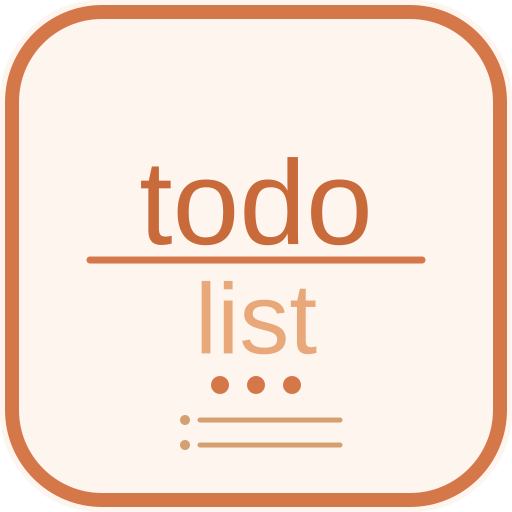
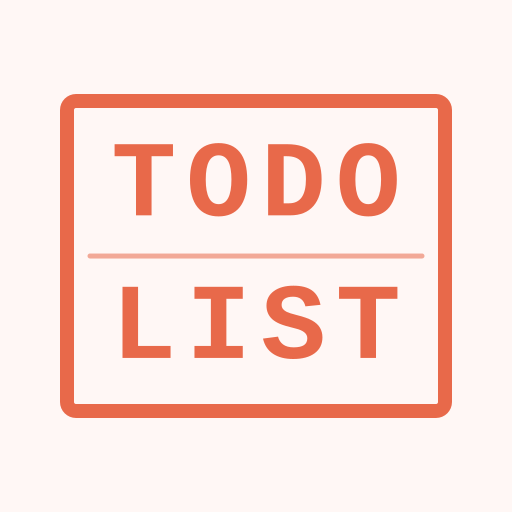
feat: 도장 배지 중앙정렬 + 앱 아이콘 전면 재설계
[배지]
- TODO/LIST 텍스트 완전 중앙정렬 (items-center + textAlign:center)
- letter-spacing 0.3em 균일 적용

[앱 아이콘 - 도장 디자인]
- icon.svg: 1024px 마스터 SVG (도장 스타일 재설계)
- icon-512.png: Android 고화질 512×512
- icon-512-maskable.png: Android maskable 512×512 (safe zone 18% 패딩)
- icon-192.png: Android 표준 192×192
- apple-touch-icon.png: iOS 홈 화면 180×180 (solid bg)
- favicon-32.png: 브라우저 파비콘 32×32

[PWA 구조]
- manifest.json: any/maskable 목적 분리, theme-color #E8694A
- index.html: apple-mobile-web-app-* 메타 추가
- scripts/gen-icons.mjs: 재생성 스크립트 (node scripts/gen-icons.mjs)

https://claude.ai/code/session_01Xn9kNcnQPCxxE11YEfXt5k

Changed region(s): [[0.0938, 0.1562, 0.9062, 0.875], [0.0, 0.0, 1.0, 1.0], [0.2188, 0.5625, 0.3438, 0.7188]]

diff --git a/src/ProjectList.jsx b/src/ProjectList.jsx
@@ -714,19 +714,21 @@ ${projectBlocks}
                   setShowCraft(true)
                   setTimeout(() => setShowCraft(false), 3000)
                 }}
-                className="flex flex-col items-center border-2 rounded px-2 py-1 cursor-pointer active:scale-95 transition"
+                className="flex flex-col items-center justify-center border-2 rounded cursor-pointer active:scale-95 transition"
                 style={{
                   borderColor: '#E8694A',
                   fontFamily: "'JetBrains Mono', monospace",
                   color: '#E8694A',
                   backgroundColor: '#fff7f5',
                   lineHeight: 1,
+                  padding: '5px 8px',
                   gap: 0,
+                  textAlign: 'center',
                 }}
               >
-                <span className="font-bold text-[11px] uppercase" style={{ letterSpacing: '0.28em' }}>TODO</span>
-                <div className="w-full my-[3px]" style={{ height: '1px', backgroundColor: '#E8694A', opacity: 0.6 }} />
-                <span className="font-bold text-[11px] uppercase" style={{ letterSpacing: '0.28em' }}>LIST</span>
+                <span className="font-bold uppercase block" style={{ fontSize: '10px', letterSpacing: '0.3em', paddingRight: '0px' }}>TODO</span>
+                <div style={{ width: '100%', height: '1px', backgroundColor: '#E8694A', opacity: 0.6, margin: '3px 0' }} />
+                <span className="font-bold uppercase block" style={{ fontSize: '10px', letterSpacing: '0.3em' }}>LIST</span>
               </div>
               {showCraft && (
                 <div

diff --git a/index.html b/index.html
@@ -5,9 +5,12 @@
     <meta name="viewport" content="width=device-width, initial-scale=1.0" />
     <title>팀 투두</title>
     <link rel="icon" type="image/png" sizes="32x32" href="/favicon-32.png" />
-    <link rel="apple-touch-icon" href="/apple-touch-icon.png" />
+    <link rel="apple-touch-icon" sizes="180x180" href="/apple-touch-icon.png" />
+    <meta name="apple-mobile-web-app-capable" content="yes" />
+    <meta name="apple-mobile-web-app-status-bar-style" content="default" />
+    <meta name="apple-mobile-web-app-title" content="팀 투두" />
     <link rel="manifest" href="/manifest.json" />
-    <meta name="theme-color" content="#D4784A" />
+    <meta name="theme-color" content="#E8694A" />
     <link rel="preconnect" href="https://fonts.googleapis.com" />
     <link rel="preconnect" href="https://fonts.gstatic.com" crossorigin />
     <link href="https://fonts.googleapis.com/css2?family=JetBrains+Mono:wght@400&display=swap" rel="stylesheet" />
